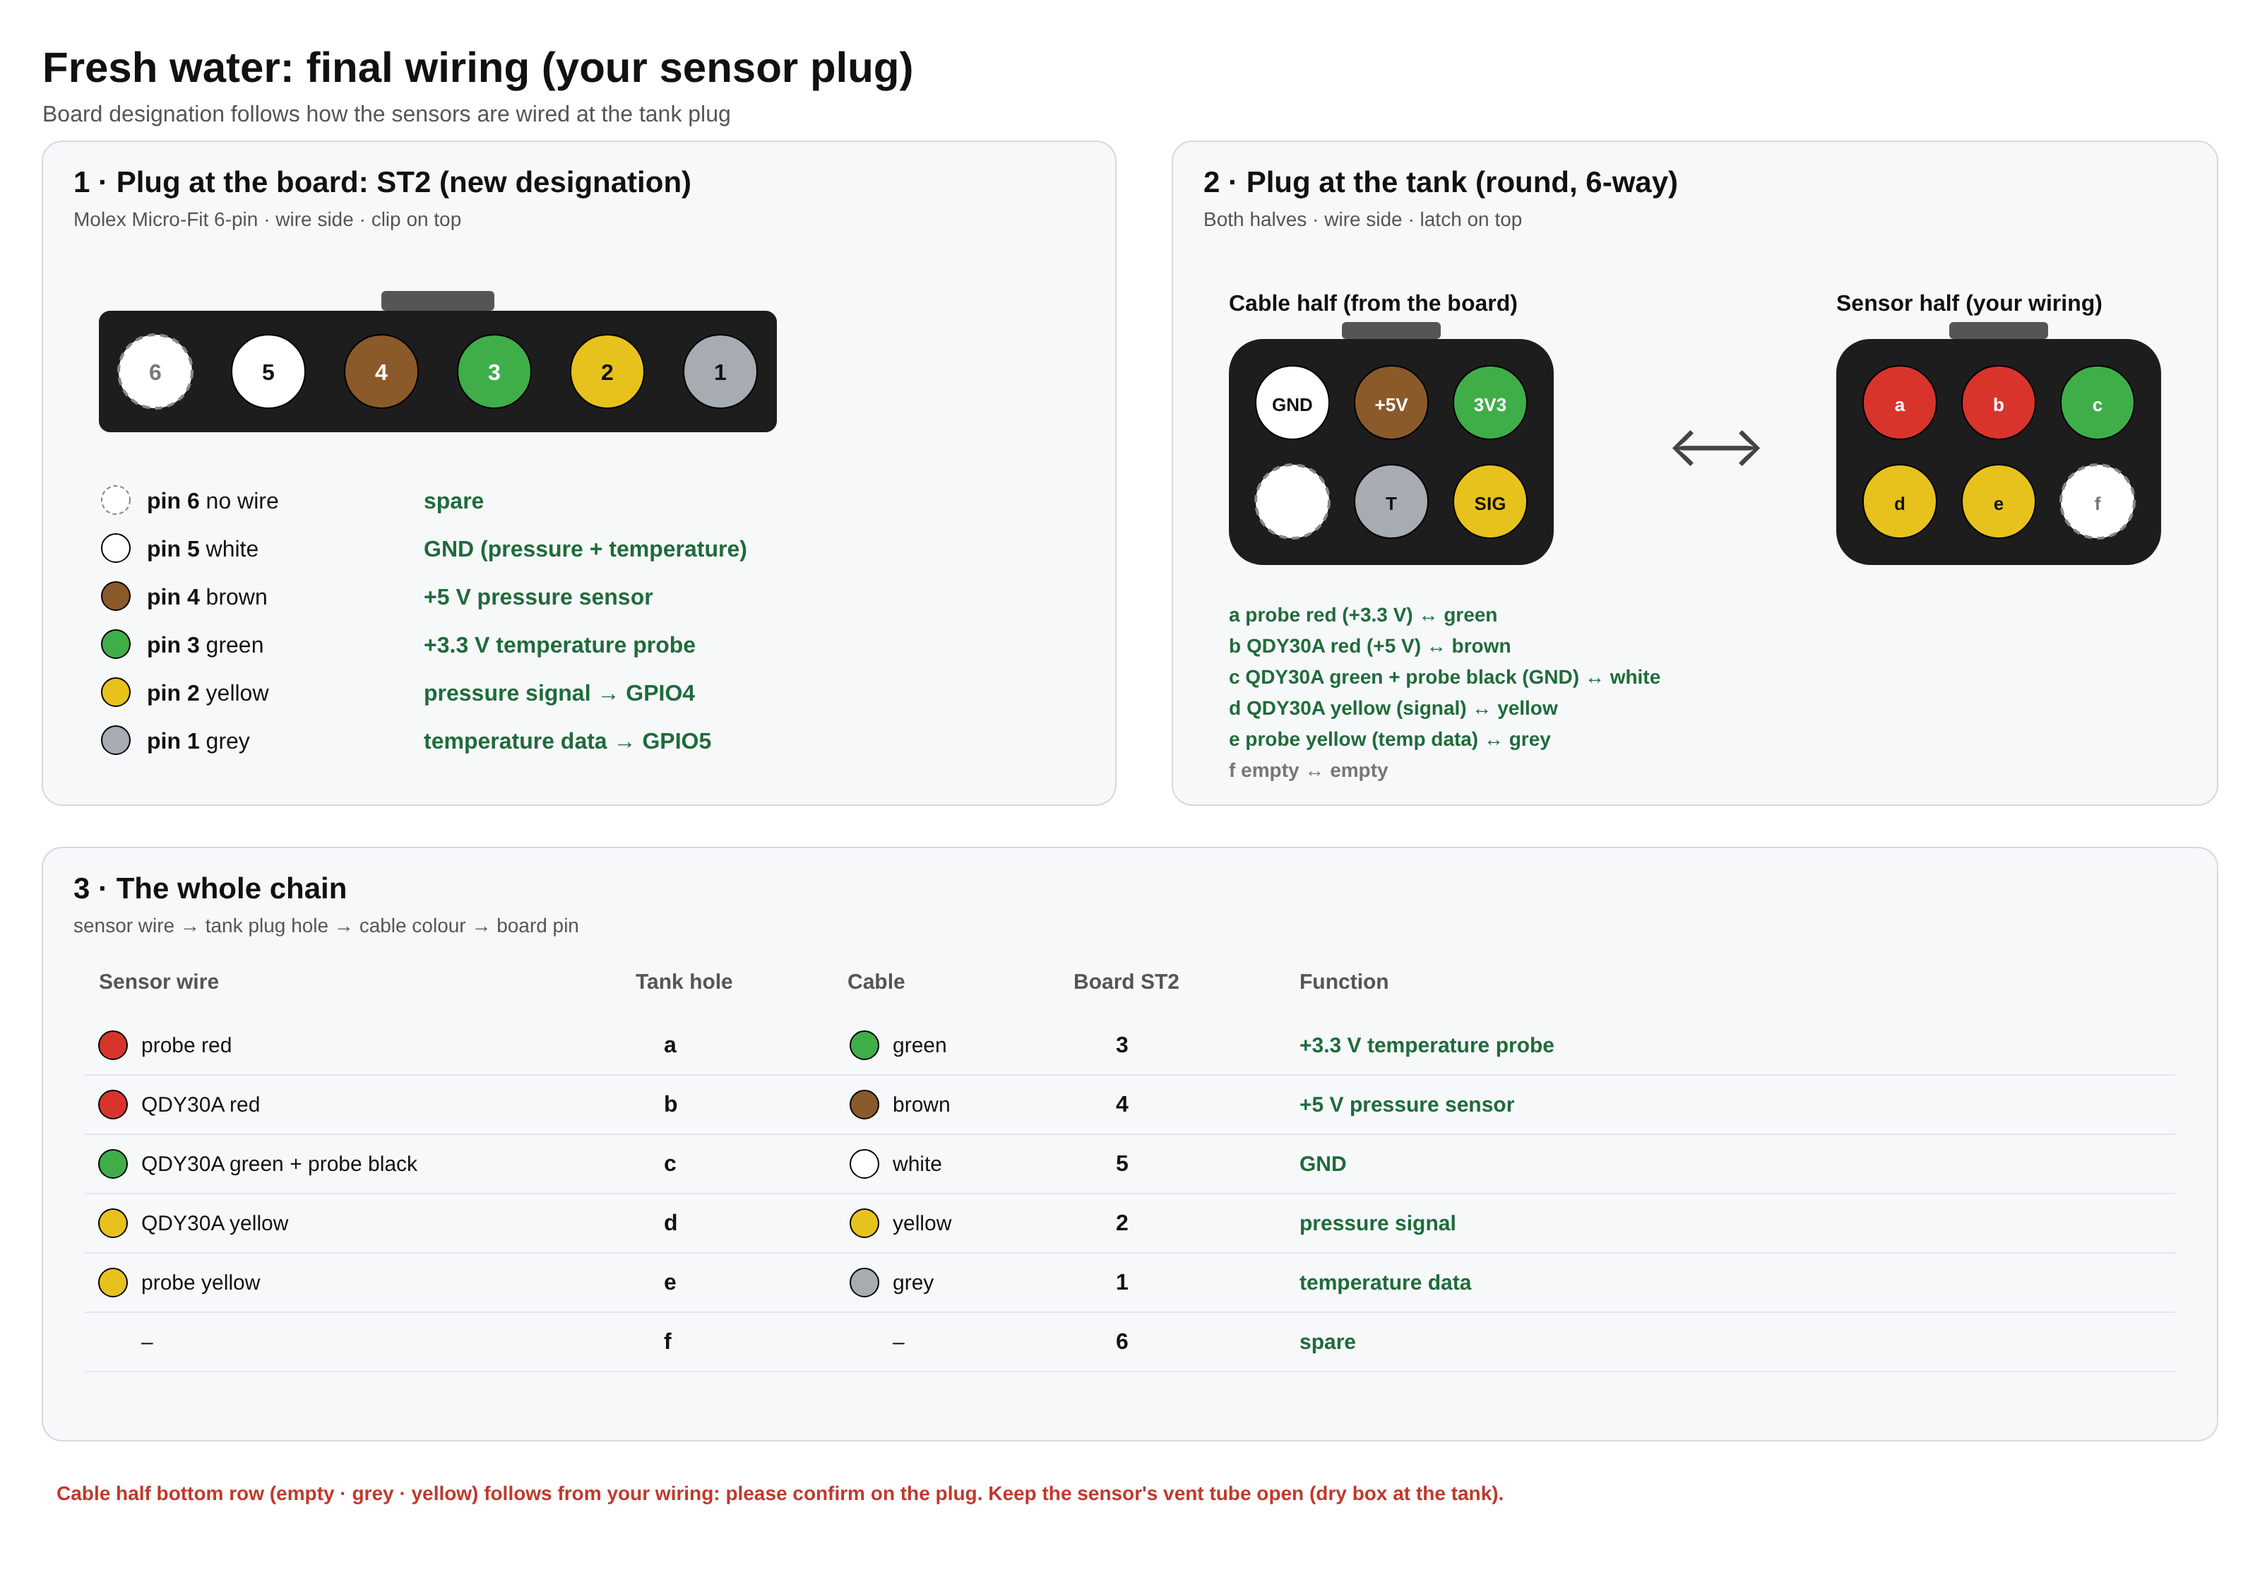
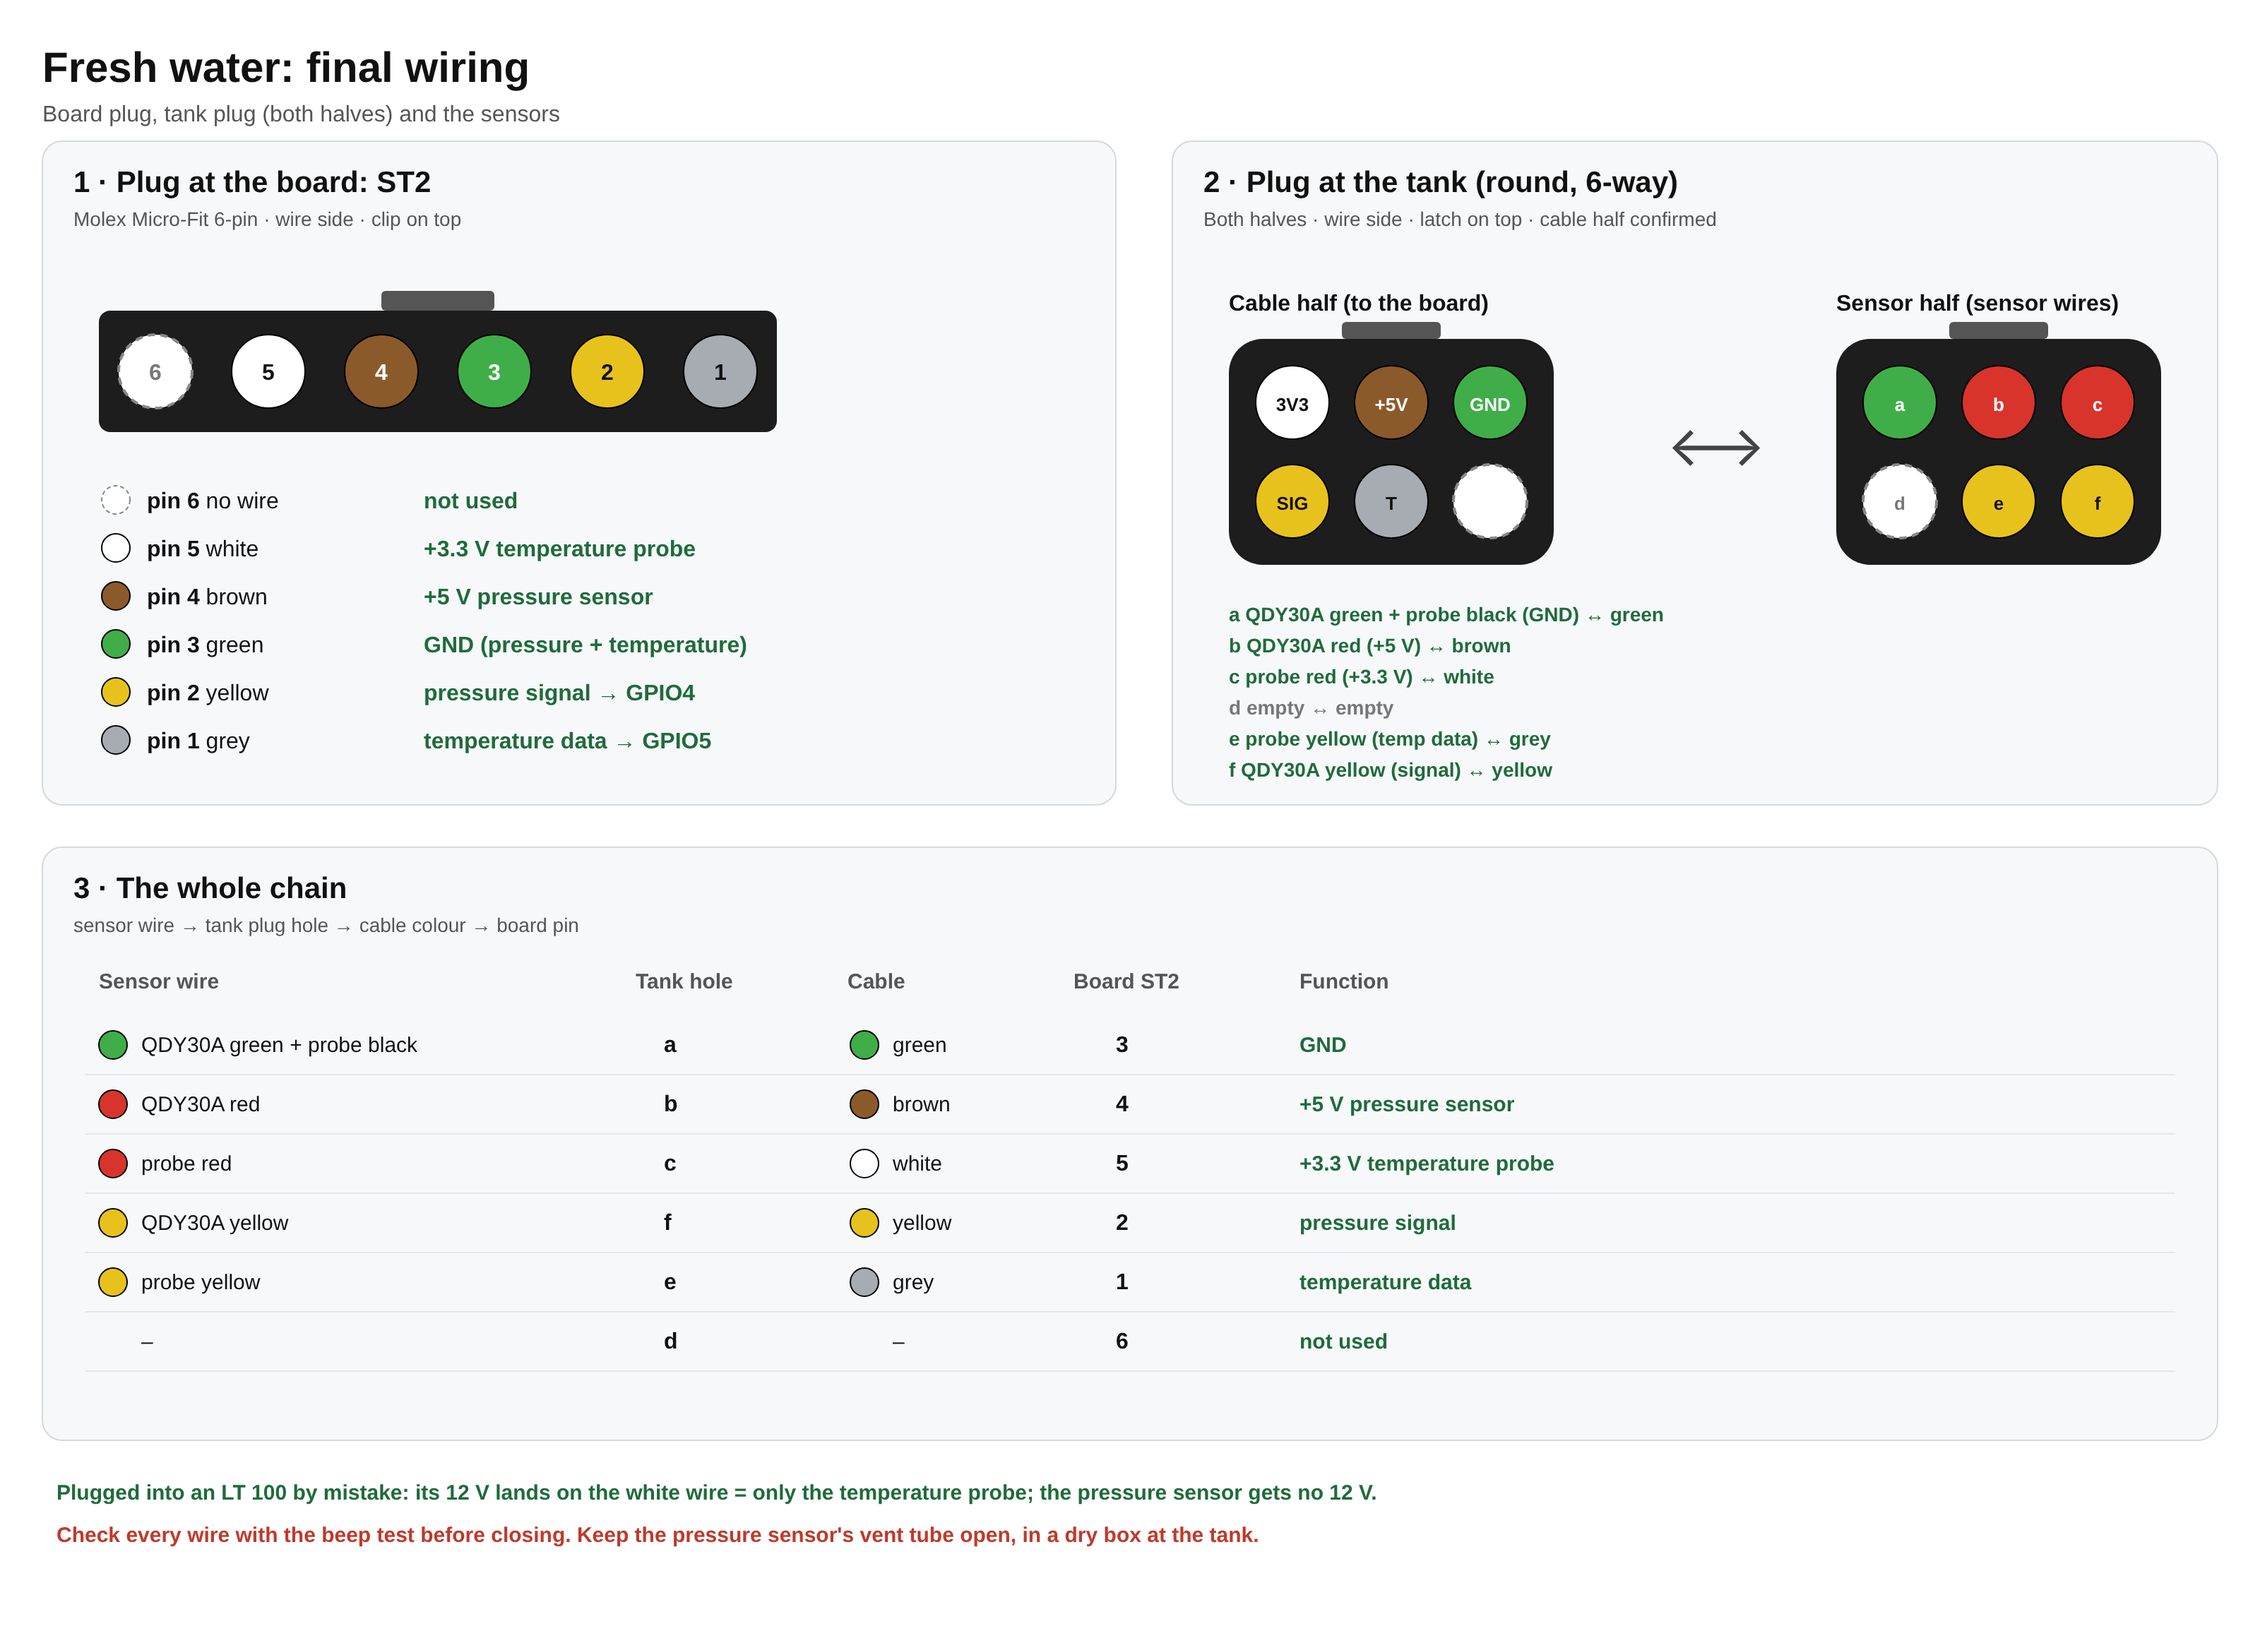
Fresh water sensors: wiring guide, LT 100-safe colour assignment (#86)
* Mods page: clean Water and Heater tabs, dial thermostat, settings folded below

Claude-Session: https://claude.ai/code/session_017Ac5dLa5nMit1aiT2DcVLT

* Mods page: remove the Pi power supply card from the Overview

The small Low power chip top right stays, only while the supply is too low.

Claude-Session: https://claude.ai/code/session_017Ac5dLa5nMit1aiT2DcVLT

* Mods page: update progress stays when you switch tabs and come back

The progress of the Venus OS mods update (Update tab) and of the sensor
firmware update (Water tab) is kept outside the tab and shown again on
return; after a reload a running update is picked up and followed.

Claude-Session: https://claude.ai/code/session_017Ac5dLa5nMit1aiT2DcVLT

* Sensor update log says Wi-Fi when the Pi talks to the sensor over Wi-Fi

The water driver sends the firmware over its own link, which is the Wi-Fi
network when it reaches the sensor that way; the log said Bluetooth.

Claude-Session: https://claude.ai/code/session_017Ac5dLa5nMit1aiT2DcVLT

* Update log kept on the Update tab; Water debug log shows Wi-Fi readings

- Update tab: the log of the last update is shown below (folded). After an
  update the page reloads onto the Update tab with that log open; it also
  stays when the check fails while the page server restarts.
- Debug -> Water: over Wi-Fi the reading is written too (when it changes,
  else once a minute); before only Bluetooth broadcasts were logged.
- Version 2.5.1.
[…]

diff --git a/docs/fresh-water-wiring.md b/docs/fresh-water-wiring.md
@@ -1,0 +1,144 @@
+# Fresh water sensors: wiring guide
+
+How to connect the **pressure sensor** (QDY30A, measures the water level) and the **water
+temperature probe** (DS18B20) to the old fresh water cable, the 5-wire cable that ran from the
+tank to the LT 100.
+
+**The rule that makes it simple: wire by colour, not by position.** Each wire keeps its colour
+from the board end to the tank. Hole positions in the plugs (mirrored or not) don't matter,
+because you check every wire with a beep test before you close anything.
+
+![Wire by colour](io-board/fresh-water-by-colour.png)
+
+| Cable wire | Function | At the tank, connect to | At the board (ST2 pin) |
+|---|---|---|---|
+| **brown** | +5 V supply | QDY30A **red** | 4 |
+| **green** | GND | QDY30A **green** + probe **black** | 3 |
+| **yellow** | pressure signal | QDY30A **yellow** | 2 |
+| **white** | +3.3 V supply | probe **red** | 5 |
+| **grey** | temperature data | probe **yellow** | 1 |
+| – | – | – | 6 (not used) |
+
+Easy to remember: **green goes to green and yellow to yellow** for the pressure sensor (ground and
+signal), brown is its +5 V; the temperature probe gets the light colours, white (+3.3 V) and grey
+(data).
+
+**Why white is the probe's +3.3 V:** the LT 100 puts 12 V on the white wire. If this cable is
+ever plugged back into an LT 100 by mistake, the 12 V reaches only the temperature probe (cheap,
+may break), never the pressure sensor; the LT 100's other four wires are measuring inputs without
+supply.
+
+## What you need
+
+* Multimeter with a beep (continuity) setting
+* A small dry junction box at the tank (IP54 or better) with 2 cable glands, and one with a
+  breathing vent or simply the glands facing down
+* 4 small connectors (WAGO 221 lever connectors are ideal) or solder + heat-shrink
+* 1 resistor 4.7 kΩ (temperature probe pull-up, only needed until the new board exists, see the end)
+
+## Step 1 – Free the cable (12 V not needed)
+
+1. Switch the 12 V system off.
+2. At the LT 100: unplug the 6-pin fresh water plug (ST2). It stays unplugged from now on.
+3. At the tank: open the round 6-way plug and **cut the rod sender off** behind its half of the
+   plug, or pull its wires out of the plug. You keep the cable half (with brown, white, yellow,
+   green, grey) and, if you like, the other plug half as a socket for the sensors.
+
+   *Keeping the round plug:* re-pin its **sensor half** (the half that held the rod sender) with
+   the sensor wires. Seen from the wire side with the latch on top, the **cable half** is
+   (confirmed): top row white · brown · green, bottom row yellow · grey · empty. The sensor half
+   is its mirror image:
+
+   ![Tank plug, both halves](io-board/fresh-water-cable.png)
+
+   | Sensor half hole (wire side, latch on top) | Sensor wire | Meets cable wire |
+   |---|---|---|
+   | a top left | QDY30A green + probe black | green |
+   | b top middle | QDY30A red | brown |
+   | c top right | probe red | white |
+   | d bottom left | – (empty) | – |
+   | e bottom middle | probe yellow | grey |
+   | f bottom right | QDY30A yellow | yellow |
+
+   Two wires in one contact (hole a) rarely hold well: join QDY30A green and probe black to a
+   short single wire first (solder or a small splice) and crimp that one.
+
+   *Easiest:* don't re-pin the round plug at all. Cut the cable just before the round plug,
+   strip the 5 wires and bring them into the junction box. You then work with plain coloured
+   wires and nothing can end up mirrored.
+
+## Step 2 – Beep test: make sure the colours match end to end
+
+Do this once, before connecting the sensors:
+
+1. Multimeter on **beep** (continuity).
+2. At the board end (the ST2 plug), put one probe on the contact of the **brown** wire (push a
+   thin needle in from the wire side if needed).
+3. At the tank end, touch the other probe to each of the 5 wire ends: it beeps on exactly one.
+   That one must be **brown** too.
+4. Repeat for green, yellow, white and grey.
+5. If a colour changes along the way (for example inside the round plug), write it down and use
+   the colour **at the tank** for step 3, but keep the function from the table above.
+
+## Step 3 – Connect the sensors in the junction box
+
+```
+ cable brown  ───────────── QDY30A red      (+5 V)
+ cable green  ──────┬────── QDY30A green    (GND)
+                    └────── probe black     (GND)
+ cable yellow ───────────── QDY30A yellow   (pressure signal)
+ cable white  ───────────── probe red       (+3.3 V)
+ cable grey   ───────────── probe yellow    (temperature data)
+```
+
+* **Ground (green):** three wires in one connector: cable green + QDY30A green + probe black.
+  With a WAGO 221-413 (3-way) that's one lever; when soldering, twist them, solder, heat-shrink.
+* **Vent tube:** the QDY30A cable has a thin air tube inside. Its end must stay **open, in dry
+  air**: cut the cable straight, don't fill it with glue or heat-shrink, and keep the end inside
+  the box. If the tube is closed or gets wet, the reading drifts.
+* Mount the box higher than the tank's top if you can, cable glands facing down, so no water
+  can run into it.
+
+## Step 4 – Check before power
+
+With the multimeter on **resistance**, at the board end (ST2 plug):
+
+| Measure between | Expect | If not |
+|---|---|---|
+| brown and green | not a short (some kΩ or more) | +5 V and ground swapped or touching: fix before power! |
+| white and green | not a short | probe wires swapped or touching |
+| yellow and green | not a short | |
+| grey and green | not a short | |
+
+Then, with the **new board** (or the test setup below) powered, measure with the meter on
+**DC volts**, black probe on green:
+
+| Wire | Expect |
+|---|---|
+| brown | about 5.0 V |
+| white | about 3.3 V |
+| yellow | about 0 V with the tank empty, rising about 0.165 V per 10 cm of water |
+| grey | about 3.3 V (pulled up; the probe pulls it down briefly when it talks) |
+
+## Step 5 – In Venus OS and the mods page
+
+* The water level comes from the pressure sensor; run `zero` once with the **empty** tank
+  (Water tab → Settings, or the sensor's own page), see [calibration.md](calibration.md).
+* The water temperature appears as temperature 1 ("Inside" by default; rename it to "Water").
+
+## Until the new board exists (test with the current I/O extension)
+
+The new board (see [io-board.md](io-board.md)) has the ST2 socket and all resistors on it. To use
+the cable now with the current hand-wired ESP32, connect its board end like this (see
+[wiring.md](wiring.md), option C, for the pressure input):
+
+| Cable wire | Current I/O extension |
+|---|---|
+| brown | buck converter **5 V output, before the diode** |
+| green | GND |
+| yellow | 10 kΩ → GPIO4, with 100 nF and 1 MΩ from GPIO4 to GND |
+| white | ESP32 **3V3** |
+| grey | GPIO5, with **4.7 kΩ** from GPIO5 to 3V3 |
+
+The cable can be several metres long; that is fine for both sensors (for very long runs use
+2.2 kΩ instead of 4.7 kΩ on the temperature data line).

diff --git a/docs/io-board.md b/docs/io-board.md
@@ -92,26 +92,27 @@ wire (the LT 100's 12 V for the rods) now carries the sensor supply.
 
 | Pin* | Wire | Was (rods, LT 100) | Now (board) | Tank plug hole → sensor wire |
 |---|---|---|---|---|
-| 5 | white | Base, +12 V | **GND** (pressure sensor + temperature probe) | c → QDY30A green + probe black |
+| 5 | white | Base, +12 V | **+3.3 V** temperature probe supply | c → probe red |
 | 4 | brown | ¼ rod | **+5 V** pressure sensor supply | b → QDY30A red |
-| 3 | green | ½ rod | **+3.3 V** temperature probe supply | a → probe red |
-| 2 | yellow | ¾ rod | **pressure signal** (10 kΩ + RC to GPIO4) | d → QDY30A yellow |
+| 3 | green | ½ rod | **GND** (pressure sensor + temperature probe) | a → QDY30A green + probe black |
+| 2 | yellow | ¾ rod | **pressure signal** (10 kΩ + RC to GPIO4) | f → QDY30A yellow |
 | 1 | grey | Full rod | **temperature data** (DS18B20, 4.7 kΩ to 3.3 V, GPIO5) | e → probe yellow |
-| 6 | – | not connected | spare | f → – |
+| 6 | – | not connected | spare | d → – |
 
 \* ST2 order (wire side, clip on top, left to right): 6 · 5 white · 4 brown · 3 green · 2 yellow · 1 grey.
-The assignment follows how the sensors are wired into the tank plug's sensor half (holes a–f,
-see the drawing); tank plug cable half, latch on top: top row white · brown · green, bottom row
-empty · grey · yellow (bottom row to confirm on the plug).
+The assignment follows the sensor wiring at the tank plug; tank plug cable half (wire side,
+latch on top, confirmed): top row white · brown · green, bottom row yellow · grey · empty.
+Step-by-step guide: [fresh-water-wiring.md](fresh-water-wiring.md).
 
 \* Pin numbers as on the LT 100's ST2 (grey 1 … white 5); confirm the pin-1 mark.
 
 * The cable has 5 wires, so the probe's ground is joined to the sensor's ground (QDY30A green)
-  in the tank plug's sensor half and shares the brown wire. Pin 6 on the board stays a spare.
+  in the tank plug's sensor half and shares the green wire. Pin 6 on the board stays a spare.
 * At the tank, the round 6-way plug's **sensor half** is re-wired (the rod probe comes out); the
   cable half and its colours stay. Its layout is the mirror image of the cable half.
 * **5 V, not 12 V**, on the brown wire: the 0–3.3 V version of the QDY30A runs on 5 V (see
-  [wiring.md](wiring.md)). Do not plug this cable back into an LT 100 afterwards.
+  [wiring.md](wiring.md)). If the cable is ever plugged into an LT 100 by mistake, its 12 V lands
+  on white = the temperature probe only; the pressure sensor gets no 12 V.
 * The pressure sensor's vent tube needs open air: make the joint at the tank in a small dry box
   (see the note on extending the sensor cable in [wiring.md](wiring.md)).
 * The fresh tank is then measured in litres (pressure sensor); the 4-step rod reading is no longer
